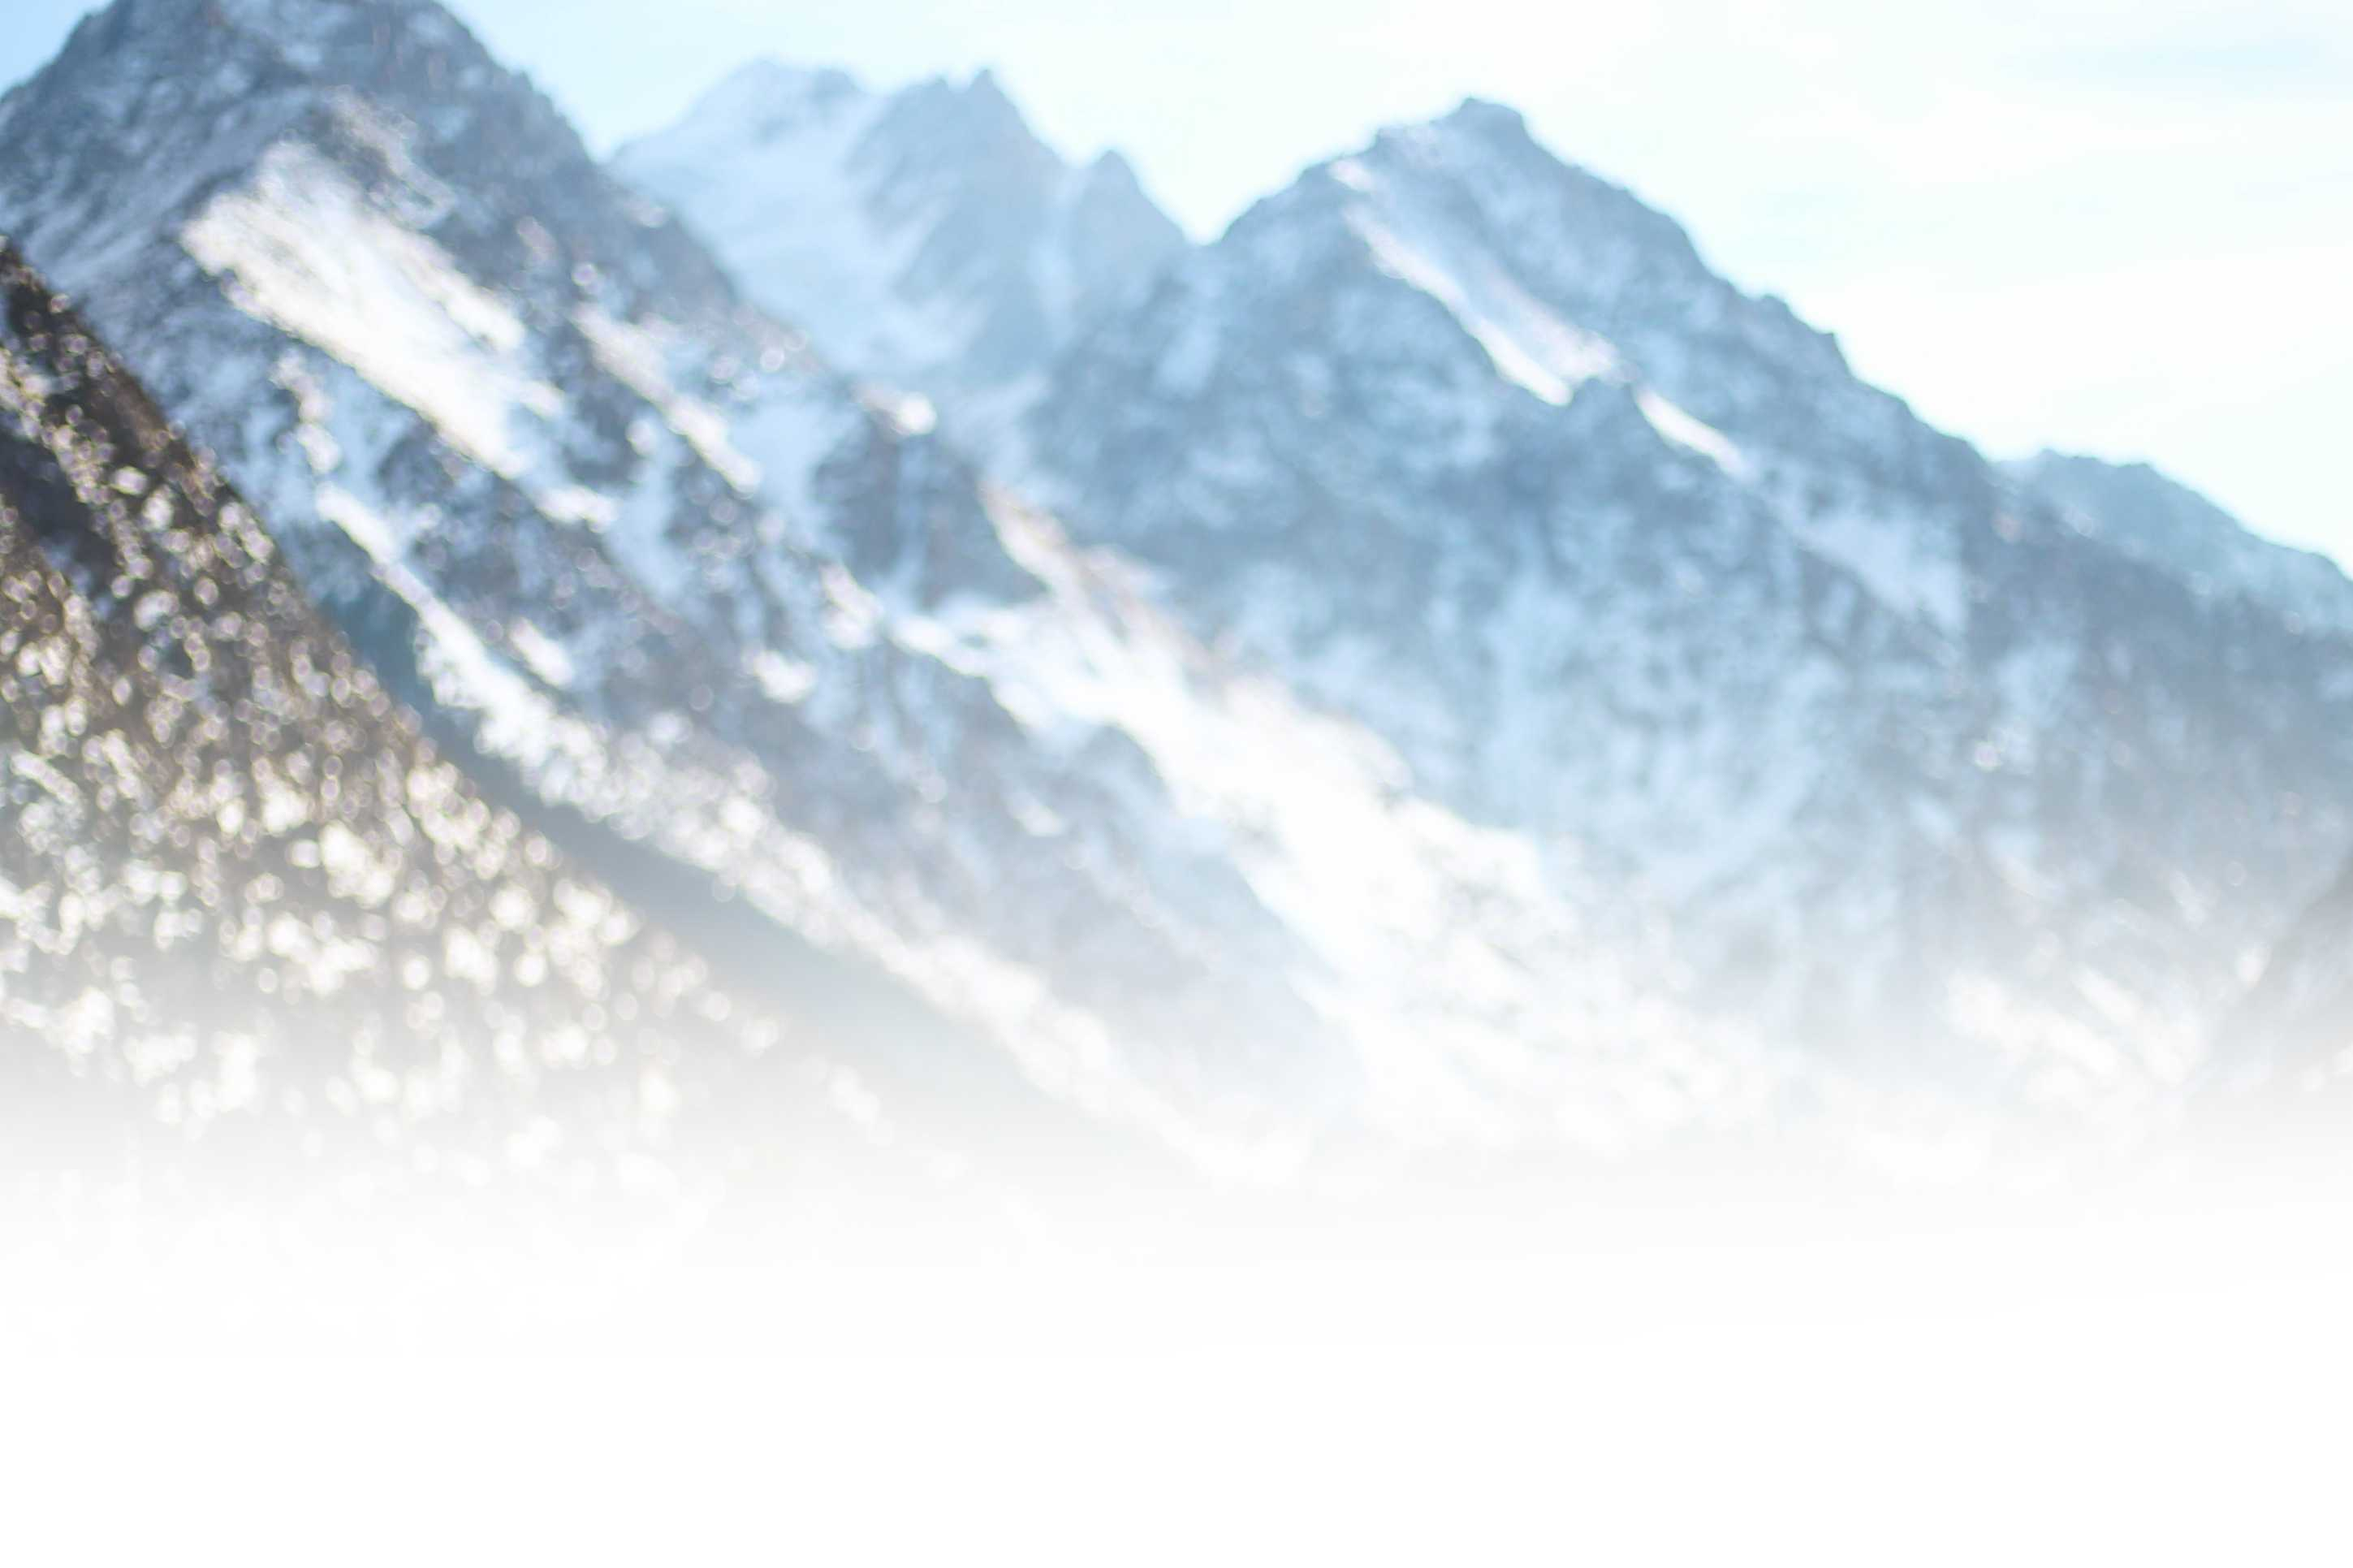
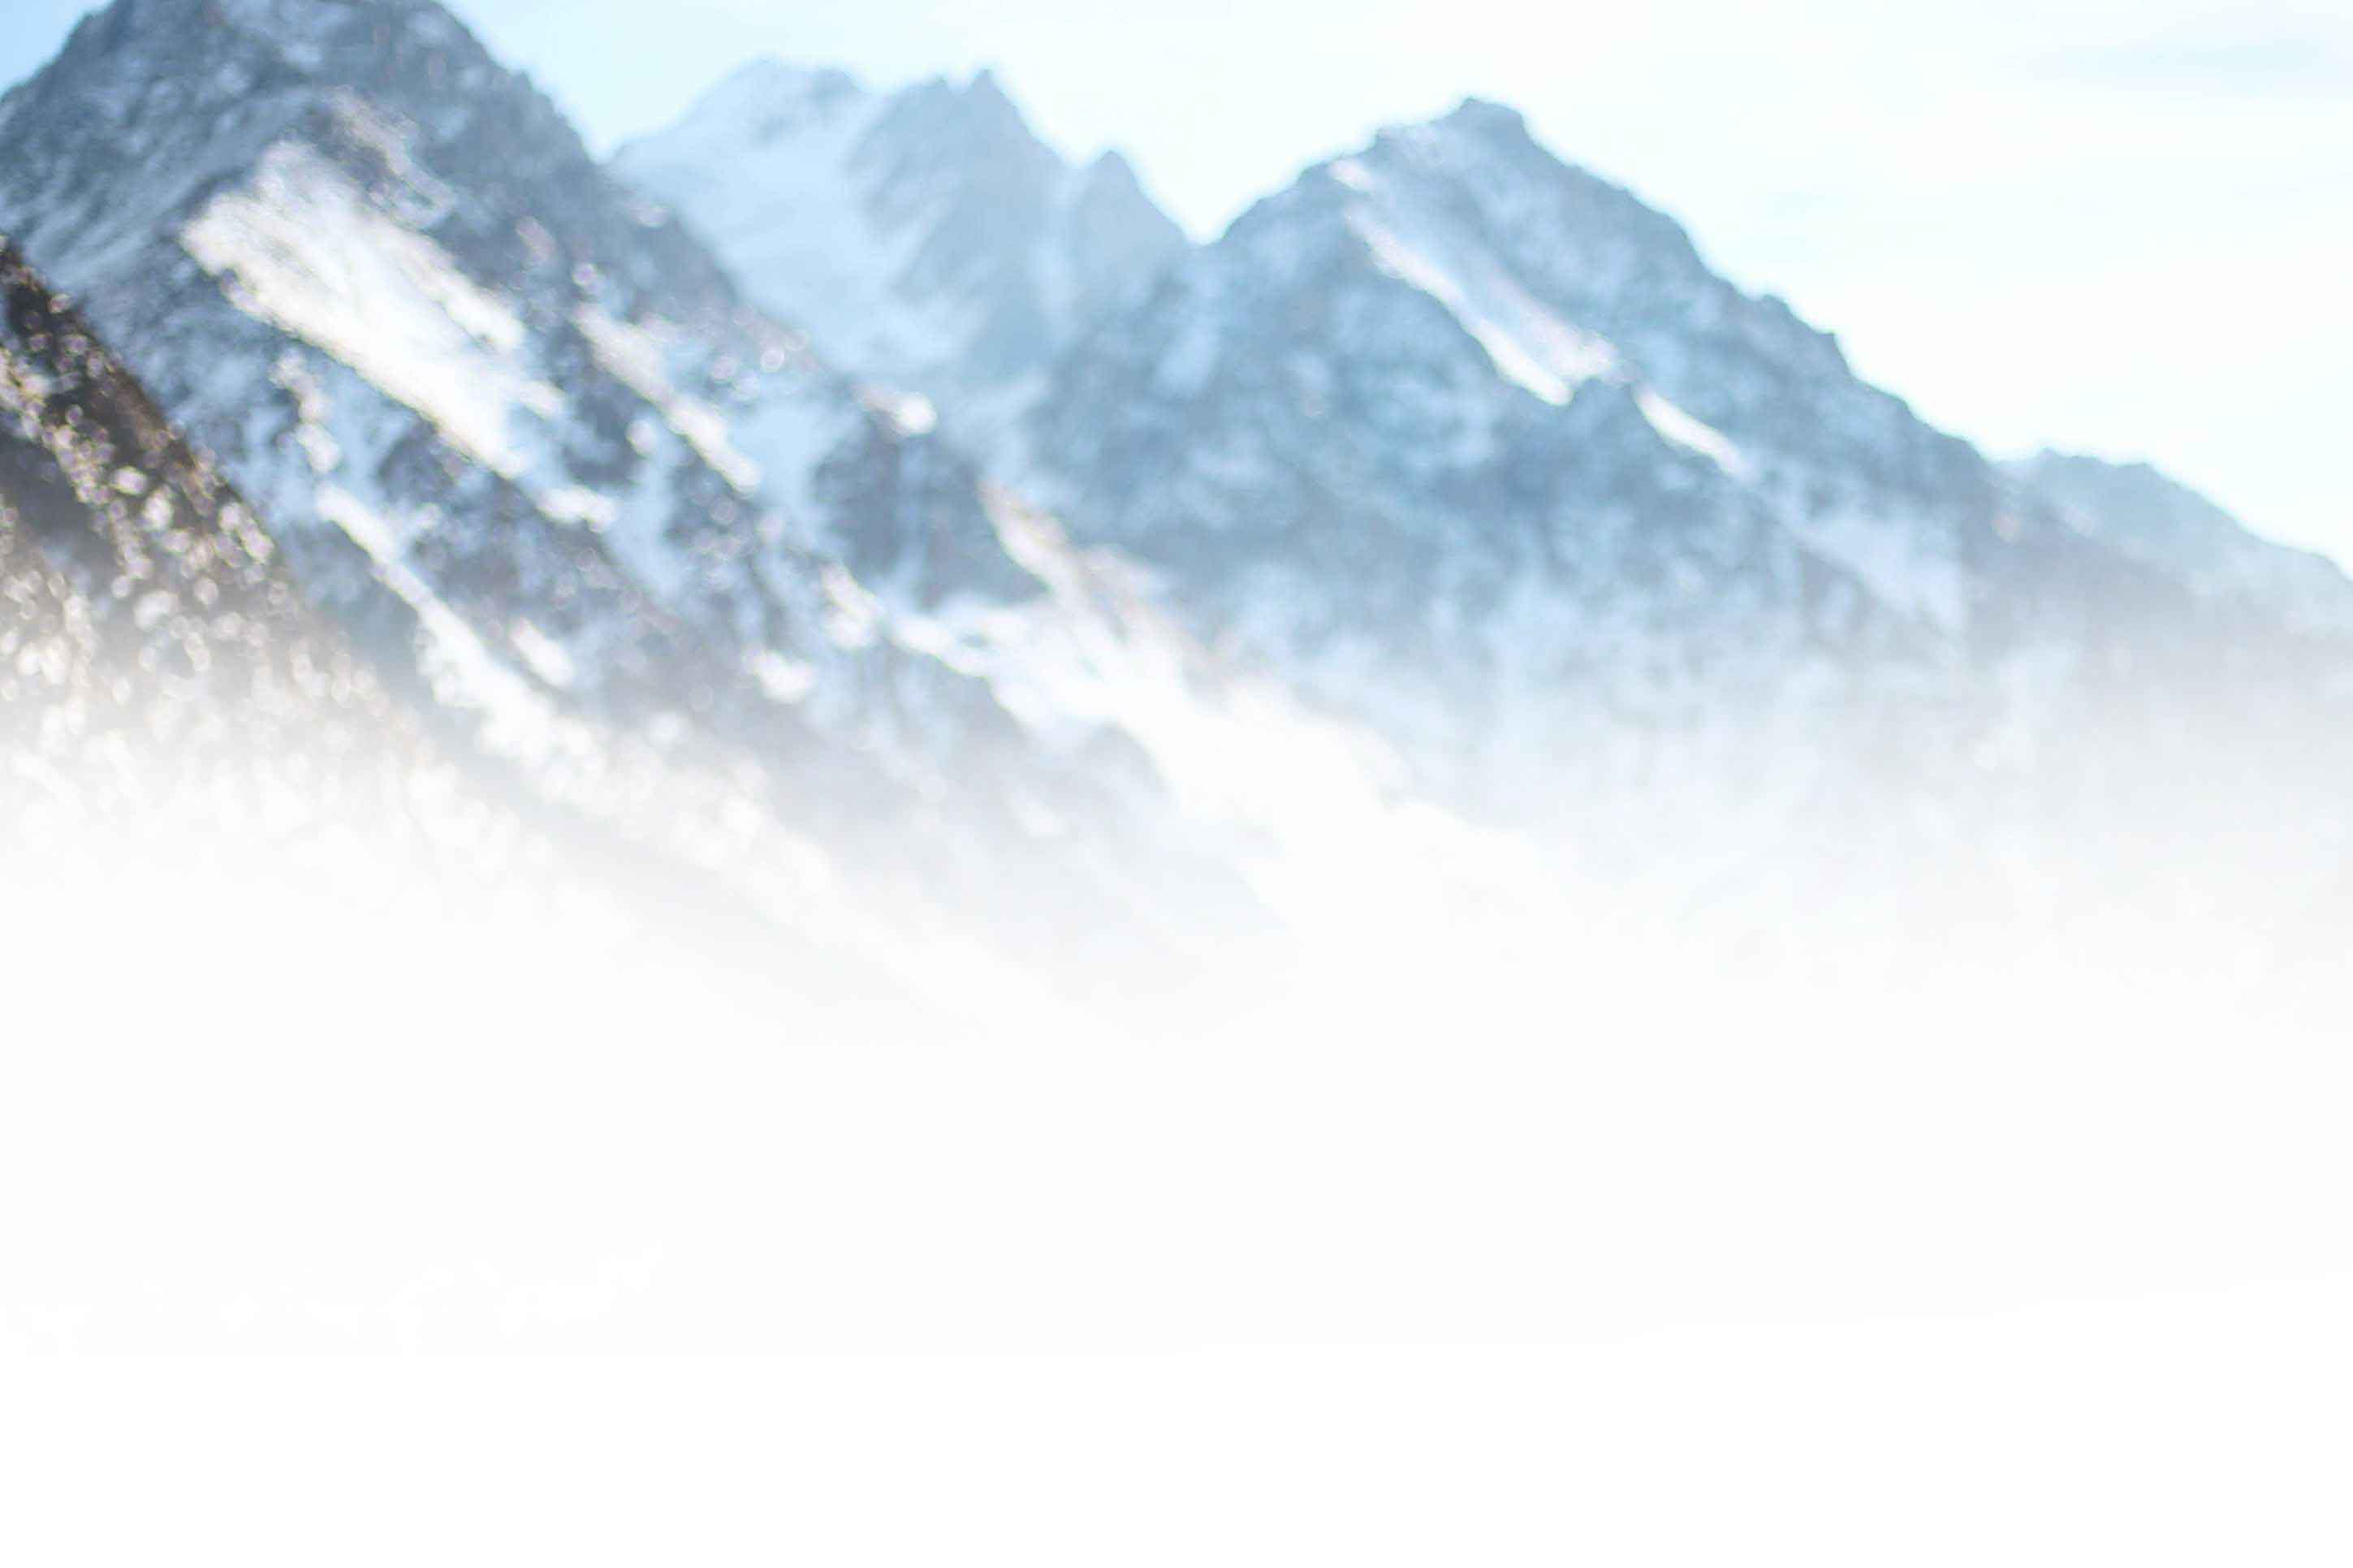
ui2

Changed region(s): [[0.0, 0.2796, 0.559, 0.7147], [0.559, 0.3107, 1.0, 0.6836]]

diff --git a/src/index.html b/src/index.html
@@ -7,11 +7,6 @@
     <link rel="stylesheet" href="./scss/main.css">
     <link href="./static/css/2.e57fd35a.chunk.css" rel="stylesheet">
     <link href="./static/css/main.872f29dd.chunk.css" rel="stylesheet">
-    <!-- <script src="./js/google.map.js"></script> -->
-    <script defer src="https://kit.fontawesome.com/6ff156a90f.js" crossorigin="anonymous"></script>
-    <!-- <script defer
-        src="https://maps.googleapis.com/maps/api/js?key=AIzaSyBN1I6Z0JlbkeItk8q98uAXtp-ueO6BAms&callback=initMap"
-        defer></script> -->
     <title>Document</title>
 </head>
 
@@ -25,8 +20,8 @@
             </div>
         </div>
     </div>
-    <div id="plain-2" class="plain"></div>
-    <div id="plain-3" class="plain"></div>
+    <!-- <div id="plain-2" class="plain"></div>
+    <div id="plain-3" class="plain"></div> -->
     <header>
         <div class="header-inner">
             <div class="interface">
@@ -86,15 +81,11 @@
     <section id="bounce">
 
         <section id="section-1">
-            <div class="section-1-bg"></div>
-            <div class="section-1-title">
-                <h1 class="curvy-h">Шарлар</h1>
-                <h3 class="curvy-h">Даруй свято</h3>
-            </div>
+            <div class="section-1-bg rellax" data-rellax-speed="-5"></div>
             <div class="hero-image"></div>
             <div class="rellax parallax-el" data-rellax-speed="5"></div>
             <div class="rellax text air-logo" data-rellax-speed="10"></div>
-            <div class="rellax clouds" data-rellax-speed="8"></div>
+            <div class="rellax clouds" data-rellax-speed="0"></div>
             <div class="whitespace"></div>
             <!-- <div class="pan-wrapper rellax" data-rellax-speed="-10">
                 <div class="pan-container">
@@ -226,6 +217,11 @@
     <script src="./static/js/2.3e7536fd.chunk.js"></script>
     <script src="./static/js/main.a90af11d.chunk.js"></script>
     <script src="./js/rellax.min.js"></script>
+    <!-- <script src="./js/google.map.js"></script> -->
+    <script defer src="https://kit.fontawesome.com/6ff156a90f.js" crossorigin="anonymous"></script>
+    <!-- <script defer
+        src="https://maps.googleapis.com/maps/api/js?key=AIzaSyBN1I6Z0JlbkeItk8q98uAXtp-ueO6BAms&callback=initMap"
+        defer></script> -->
     <script>
         var rellax = new Rellax('.rellax', { center: true });
     </script>

diff --git a/src/js/preloader.js b/src/js/preloader.js
@@ -6,18 +6,18 @@ menuBottom = document.querySelector('.menu'),
 section= document.getElementById('section-1'),
 panWrapper = document.querySelector('.pan-wrapper'),
 sectionBG = document.querySelector('.section-1-bg'),
+heroImg = document.querySelector('.hero-image'),
 balloon = document.querySelector('.parallax-el'),
 airLogo = document.querySelector('.air-logo');
 let tl = new gsap.timeline();
 document.addEventListener("DOMContentLoaded", ()=>{
   tl
-  .to(startImg,2,{scale:1.2,ease:Elastic.easeOut.config(1, 0.3),delay:0.5})
-  .to(plain,2.5,{y:"-100%", ease: Power4.easeOut,delay:0,stagger:0.1})
-  .from(bounce,2,{scale:1.2,x:0,opacity:0.8,ease: Power4.easeOut,delay:-2.7})
-  .from(menuTop,2,{y:"-100%",ease: Power4.easeOut,delay:-1.7})
-  //.from(menuBottom,2,{height:0,ease: Power4.easeOut,delay:-1.6})
-  .to(sectionBG,2.5,{scale:1.2,ease: Power4.easeOut,delay:-3.2})
-  .from(balloon,2.5,{y:800,ease: Power4.easeOut,delay:-3.2})
-  .from(airLogo,2.5,{y:1500,ease: Power4.easeOut,delay:-3.2})
+  .to(startImg,1,{scale:1.2,ease:Power4.easeOut})
+  .to(plain,1.5,{y:"-100%", ease: Power4.easeOut,delay:0,stagger:0.1})
+  .to(sectionBG,1,{'-webkit-filter':'blur('+(10)+'px)', 'filter':'blur('+(10)+'px)',ease: Power4.easeOut})
+  .to(heroImg,1,{scale:0.7,ease: Power4.easeOut,delay:-1})
+  //.from(menuTop,2,{y:"-100%",ease: Power4.easeOut,delay:-1.7})
+  .from(balloon,.5,{y:800,ease: Power4.easeOut,})
+  .from(airLogo,.5,{y:1000,ease: Power4.easeOut})
 })
 //Elastic.easeOut.config(1, 0.3)

diff --git a/src/scss/main.css b/src/scss/main.css
@@ -240,14 +240,14 @@ input[type="text"] {
   height: 100vh;
   background: url("../assets/parallax/air-ballon-2-min.png") no-repeat 50% 50%;
   background-size: cover;
-  top: 3%;
+  top: -8%;
 }
 
 .text {
   position: absolute;
   width: 100%;
   height: 100vh;
-  top: 0%;
+  top: -8%;
   background: url("../assets/parallax/air-logo-min.png") no-repeat 50% 50%;
   background-size: cover;
 }
@@ -256,6 +256,7 @@ input[type="text"] {
   position: absolute;
   width: 100%;
   height: 100vh;
+  top: -5%;
   background: url("../assets/parallax/clouds-min.png") no-repeat 50% 50%;
   background-size: cover;
 }
@@ -271,6 +272,10 @@ body {
   padding: 0;
   font-size: 15px;
   font-family: "Lora", serif;
+}
+
+header {
+  z-index: 5;
 }
 
 header .header-inner {
@@ -489,7 +494,7 @@ header .header-inner .menu .wrapper .menu-inner .menu-list .menu-item a {
   left: 0;
   width: 100%;
   height: 100%;
-  background: url("../assets/sky-bg.jpg");
+  background: url("../assets/parallax/hero.jpg");
   background-repeat: no-repeat;
   background-size: cover;
   background-position: center center;

diff --git a/src/scss/_variables.scss b/src/scss/_variables.scss
@@ -215,14 +215,14 @@ input[type="text"] {
   height: 100vh;
   background: url("../assets/parallax/air-ballon-2-min.png") no-repeat 50% 50%;
   background-size: cover;
-  top: 3%;
+  top: -8%;
 }
 
 .text {
   position: absolute;
   width: 100%;
   height: 100vh;
-  top: 0%;
+  top: -8%;
   background: url("../assets/parallax/air-logo-min.png") no-repeat 50% 50%;
   background-size: cover;
   //mix-blend-mode: overlay;
@@ -232,6 +232,7 @@ input[type="text"] {
   position: absolute;
   width: 100%;
   height: 100vh;
+  top: -5%;
   background: url("../assets/parallax/clouds-min.png") no-repeat 50% 50%;
   background-size: cover;
 }

diff --git a/src/scss/main.scss b/src/scss/main.scss
@@ -8,6 +8,7 @@ body {
   font-family: "Lora", serif;
 }
 header {
+  z-index:5;
   & .header-inner {
     width: 100%;
     display: flex;
@@ -191,7 +192,7 @@ header {
     left:0;
     width:100%;
     height:100%;
-    background: url("../assets/sky-bg.jpg");
+    background: url("../assets/parallax/hero.jpg");
   background-repeat: no-repeat;
   background-size: cover;
   background-position: center center;
